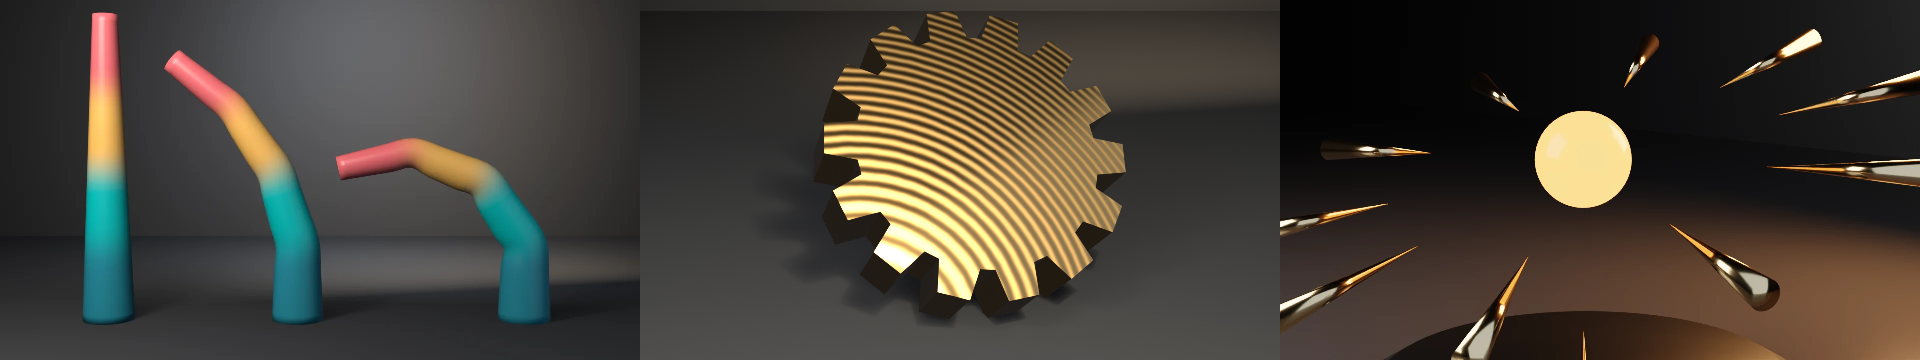
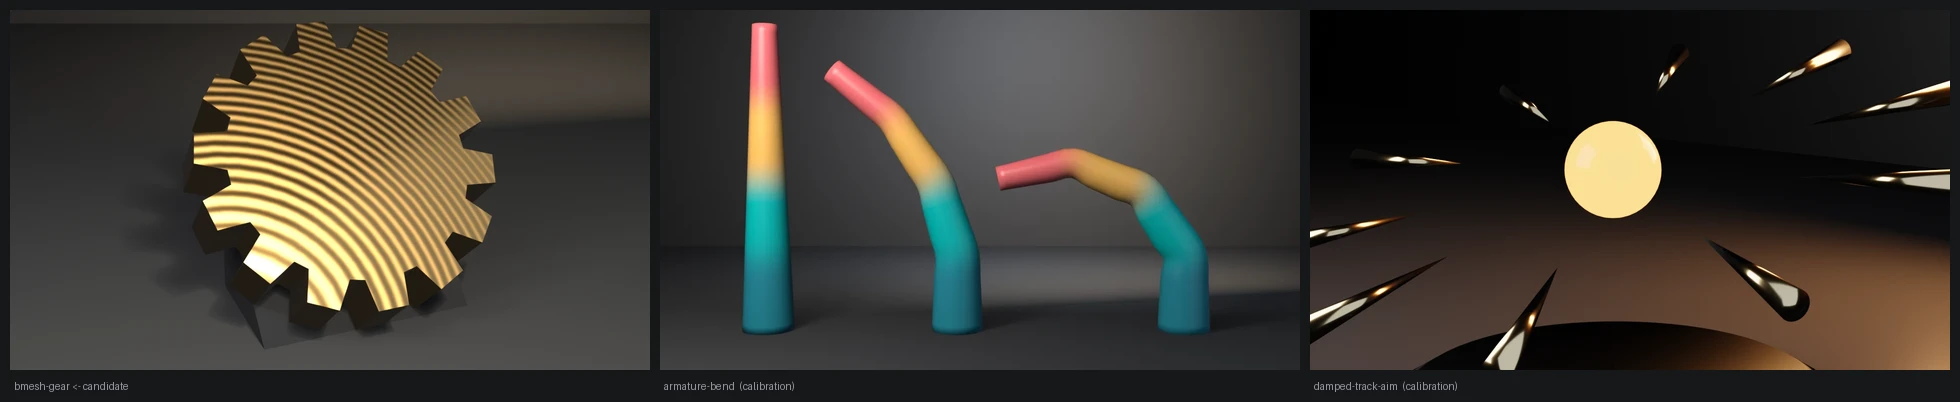
fix(examples): lean the bmesh-gear on a display wedge
The gear leaned 46 degrees back with nothing behind it, and its lowest tooth
was sunk 4.5 cm into the floor. The gear is now seated from its lowest
evaluated vertex (3 mm bite) and carried by a matte inclined wedge whose
slope lies in the back-cap plane. The camera rides with the seat height.
bmesh-gear is a pinned calibration reference: luma 0.305 -> 0.302, stage
0.237 -> 0.236, warmth +0.370 -> +0.374, saturation 0.195 -> 0.195.
Render path only; exit codes are unchanged on all three binaries.

diff --git a/docs/gallery/bmesh-gear/index.html b/docs/gallery/bmesh-gear/index.html
@@ -16,13 +16,13 @@
   <meta property="og:image" content="https://tmhsdigital.github.io/Blender-Developer-Tools/gallery/assets/bmesh-gear-hero.webp" />
   <meta property="og:image:width" content="1280" />
   <meta property="og:image:height" content="720" />
-  <meta property="og:image:alt" content="A gold fourteen-tooth gear lying at an angle, its face covered in concentric grooves." />
+  <meta property="og:image:alt" content="A gold fourteen-tooth gear leaning back on a dark display wedge, its face covered in concentric grooves." />
   <meta property="og:site_name" content="Blender Developer Tools" />
   <meta name="twitter:card" content="summary_large_image" />
   <meta name="twitter:title" content="bmesh-gear — Examples — Blender Developer Tools" />
   <meta name="twitter:description" content="A 14-tooth gear built entirely with bmesh — profile ring, face, extrude — with bm.free() in a try/finally, exactly as the ownership contract demands." />
   <meta name="twitter:image" content="https://tmhsdigital.github.io/Blender-Developer-Tools/gallery/assets/bmesh-gear-hero.webp" />
-  <meta name="twitter:image:alt" content="A gold fourteen-tooth gear lying at an angle, its face covered in concentric grooves." />
+  <meta name="twitter:image:alt" content="A gold fourteen-tooth gear leaning back on a dark display wedge, its face covered in concentric grooves." />
   <style>
     /* fonts are deployed by the landing build (docs/fonts/) */
     @font-face { font-family: 'Barlow Condensed'; font-weight: 600; font-display: swap;
@@ -268,8 +268,8 @@
     <p>A 14-tooth gear built entirely with bmesh — profile ring, face, extrude — with bm.free() in a try/finally, exactly as the ownership contract demands.</p>
   </header>
   <main id="main">
-    <button class="detail-hero" id="heroZoom" type="button" aria-label="View full size: A gold fourteen-tooth gear lying at an angle, its face covered in concentric grooves.">
-      <img src="../assets/bmesh-gear-hero.webp" alt="A gold fourteen-tooth gear lying at an angle, its face covered in concentric grooves." width="1280" height="720" />
+    <button class="detail-hero" id="heroZoom" type="button" aria-label="View full size: A gold fourteen-tooth gear leaning back on a dark display wedge, its face covered in concentric grooves.">
+      <img src="../assets/bmesh-gear-hero.webp" alt="A gold fourteen-tooth gear leaning back on a dark display wedge, its face covered in concentric grooves." width="1280" height="720" />
     </button>
     <p class="zoom-hint">Rendered headless by the example itself — click to zoom.</p>
     <div class="callout"><span class="tag">witnesses</span> Parametric bmesh topology is exactly predictable: verts, edges, and faces match their closed forms, and every edge borders exactly two faces (watertight).</div>
@@ -280,6 +280,7 @@
     <section class="detail-section md">
 <p>A runnable example that builds a 14-tooth gear entirely with bmesh — profile ring, face, <code>extrude_face_region</code>, translate — following the ownership contract from <a href="https://github.com/TMHSDigital/Blender-Developer-Tools/tree/main/skills/mesh-editing-and-bmesh/SKILL.md"><code>mesh-editing-and-bmesh</code></a> and the <a href="https://github.com/TMHSDigital/Blender-Developer-Tools/tree/main/rules/always-free-bmesh.mdc"><code>always-free-bmesh</code></a> rule: every <code>bmesh.new()</code> is paired with <code>bm.free()</code> in a <code>try</code>/<code>finally</code>.</p>
 <p><strong>What it witnesses:</strong> parametric bmesh construction has exactly predictable topology. The check asserts the closed-form counts — verts = 2 × (4 × teeth), faces = sides + 2 caps, edges = 3 × profile — and that the result is watertight (every edge borders exactly two faces). If an op leaks geometry or a face fails to close, the math catches it.</p>
+<p>The still leans the gear back on a matte inclined display wedge. Both contacts are derived from the posed mesh: the lowest back-cap vertex sits 3 mm into the floor, and the wedge&#x27;s slope lies in the back-cap plane, so the lean is carried rather than held in the air.</p>
 <h2>Run</h2>
 <pre><code># Cheap correctness check (no render) — the CI check:
 blender --background --python bmesh_gear.py --
@@ -322,6 +323,7 @@ check. Pass --output to also render a still:
     blender --background --python bmesh_gear.py -- --output g.png  # + render
 &quot;&quot;&quot;</span>
 <span class="k">import</span> bpy, bmesh, sys, os, math, argparse
+<span class="k">from</span> mathutils <span class="k">import</span> Vector
 
 TEETH = <span class="n">14</span>
 R_ROOT = <span class="n">1.0</span>
@@ -329,6 +331,11 @@ R_TIP = <span class="n">1.25</span>
 DEPTH = <span class="n">0.6</span>
 <span class="c"># fraction of a tooth period spent at the tip vs the root</span>
 TOOTH_DUTY = <span class="n">0.45</span>
+
+<span class="c"># render staging only (not part of the check)</span>
+STAGE_BITE = <span class="n">0.003</span>    <span class="c"># contact depth into the floor and into the gear&#x27;s back</span>
+WEDGE_SLOPE = <span class="n">1.55</span>    <span class="c"># display wedge slope length, up the gear&#x27;s back face</span>
+WEDGE_WIDTH = <span class="n">1.8</span>     <span class="c"># display wedge width across the gear</span>
 
 
 <span class="k">def</span> gear_profile():
@@ -425,8 +432,53 @@ TOOTH_DUTY = <span class="n">0.45</span>
     nt.links.new(rings.outputs[<span class="s">&quot;Fac&quot;</span>], rough.inputs[<span class="s">&quot;Value&quot;</span>])
     nt.links.new(rough.outputs[<span class="s">&quot;Result&quot;</span>], bsdf.inputs[<span class="s">&quot;Roughness&quot;</span>])
     obj.data.materials.append(mat)
-    obj.location = (<span class="n">0.0</span>, <span class="n">0.0</span>, <span class="n">0.85</span>)
+    <span class="c"># the gear leans back on an inclined display wedge. Both contacts are</span>
+    <span class="c"># derived from the posed mesh: the lowest back-cap vertex bites into</span>
+    <span class="c"># the floor, and the wedge&#x27;s slope lies in the back-cap plane, sunk into</span>
+    <span class="c"># the gear, so the lean is carried rather than hung in the air</span>
     obj.rotation_euler = (math.radians(<span class="n">46</span>), <span class="n">0.0</span>, math.radians(<span class="n">22</span>))
+    obj.location = (<span class="n">0.0</span>, <span class="n">0.0</span>, <span class="n">0.0</span>)
+    bpy.context.view_layer.update()
+    obj.location.z = -min((obj.matrix_world @ v.co).z <span class="k">for</span> v <span class="k">in</span> obj.data.vertices) - STAGE_BITE
+    bpy.context.view_layer.update()
+    mw = obj.matrix_world
+    rot = mw.to_3x3()
+    side = (rot @ Vector((<span class="n">1.0</span>, <span class="n">0.0</span>, <span class="n">0.0</span>))).normalized()
+    up = (rot @ Vector((<span class="n">0.0</span>, <span class="n">1.0</span>, <span class="n">0.0</span>))).normalized()
+    into = (rot @ Vector((<span class="n">0.0</span>, <span class="n">0.0</span>, <span class="n">1.0</span>))).normalized()
+    low = min((mw @ v.co <span class="k">for</span> v <span class="k">in</span> obj.data.vertices), key=<span class="k">lambda</span> p: p.z)
+    centre = mw @ Vector((<span class="n">0.0</span>, <span class="n">0.0</span>, <span class="n">0.0</span>))
+    foot = low + side * (centre - low).dot(side) + into * STAGE_BITE
+    top = foot + up * WEDGE_SLOPE
+    back = Vector((top.x, top.y, -STAGE_BITE))
+    front = Vector((foot.x, foot.y, -STAGE_BITE))
+    wedge_me = bpy.data.meshes.new(<span class="s">&quot;Wedge&quot;</span>)
+    bm = bmesh.new()
+    <span class="k">try</span>:
+        half = side * (WEDGE_WIDTH / <span class="n">2</span>)
+        ring = [[bm.verts.new(p + sgn * half) <span class="k">for</span> p <span class="k">in</span> (front, foot, top, back)]
+                <span class="k">for</span> sgn <span class="k">in</span> (-<span class="n">1.0</span>, <span class="n">1.0</span>)]
+        a, b = ring
+        bm.faces.new(a)
+        bm.faces.new(b[::-<span class="n">1</span>])
+        <span class="k">for</span> i <span class="k">in</span> range(<span class="n">4</span>):
+            j = (i + <span class="n">1</span>) % <span class="n">4</span>
+            bm.faces.new((a[i], a[j], b[j], b[i]))
+        bmesh.ops.recalc_face_normals(bm, faces=bm.faces)
+        bm.to_mesh(wedge_me)
+    <span class="k">finally</span>:
+        bm.free()
+    wmat = bpy.data.materials.new(<span class="s">&quot;DisplayStand&quot;</span>)
+    wmat.use_nodes = <span class="k">True</span>
+    wb = wmat.node_tree.nodes[<span class="s">&quot;Principled BSDF&quot;</span>]
+    <span class="c"># matte and dark: the slope faces the key square-on, and at the floor&#x27;s</span>
+    <span class="c"># finish its specular sheen alone (~45/255, measured) reads as paper</span>
+    wb.inputs[<span class="s">&quot;Base Color&quot;</span>].default_value = (<span class="n">0.02</span>, <span class="n">0.021</span>, <span class="n">0.025</span>, <span class="n">1.0</span>)
+    wb.inputs[<span class="s">&quot;Roughness&quot;</span>].default_value = <span class="n">0.9</span>
+    spec = wb.inputs.get(<span class="s">&quot;Specular IOR Level&quot;</span>) <span class="k">or</span> wb.inputs.get(<span class="s">&quot;Specular&quot;</span>)
+    spec.default_value = <span class="n">0.1</span>
+    wedge_me.materials.append(wmat)
+    scene.collection.objects.link(bpy.data.objects.new(<span class="s">&quot;Wedge&quot;</span>, wedge_me))
 
     floor_me = bpy.data.meshes.new(<span class="s">&quot;Floor&quot;</span>)
     bm = bmesh.new()
@@ -473,7 +525,9 @@ TOOTH_DUTY = <span class="n">0.45</span>
     cam_data = bpy.data.cameras.new(<span class="s">&quot;Cam&quot;</span>)
     cam_data.lens = <span class="n">55.0</span>
     cam = bpy.data.objects.new(<span class="s">&quot;Cam&quot;</span>, cam_data)
-    cam.location = (<span class="n">0.0</span>, -<span class="n">7.6</span>, <span class="n">4.2</span>)
+    <span class="c"># the camera rides with the gear&#x27;s derived seat height (it was posed for</span>
+    <span class="c"># a gear hung at z=0.85), so the composition is unchanged</span>
+    cam.location = (<span class="n">0.0</span>, -<span class="n">7.6</span>, <span class="n">4.2</span> + obj.location.z - <span class="n">0.85</span>)
     cam.rotation_euler = (math.radians(<span class="n">66</span>), <span class="n">0.0</span>, <span class="n">0.0</span>)
     scene.collection.objects.link(cam)
     scene.camera = cam
@@ -531,7 +585,7 @@ TOOTH_DUTY = <span class="n">0.45</span>
   </main>
   <dialog class="lightbox" id="lightbox" aria-label="Full-size render">
     <button class="lightbox-close" type="button" autofocus>Close</button>
-    <img src="../assets/bmesh-gear-hero.webp" alt="A gold fourteen-tooth gear lying at an angle, its face covered in concentric grooves." />
+    <img src="../assets/bmesh-gear-hero.webp" alt="A gold fourteen-tooth gear leaning back on a dark display wedge, its face covered in concentric grooves." />
   </dialog>
   <footer>
     <div class="statusbar">

diff --git a/examples/bmesh-gear/bmesh_gear.py b/examples/bmesh-gear/bmesh_gear.py
@@ -19,6 +19,7 @@ check. Pass --output to also render a still:
     blender --background --python bmesh_gear.py -- --output g.png  # + render
 """
 import bpy, bmesh, sys, os, math, argparse
+from mathutils import Vector
 
 TEETH = 14
 R_ROOT = 1.0
@@ -26,6 +27,11 @@ R_TIP = 1.25
 DEPTH = 0.6
 # fraction of a tooth period spent at the tip vs the root
 TOOTH_DUTY = 0.45
+
+# render staging only (not part of the check)
+STAGE_BITE = 0.003    # contact depth into the floor and into the gear's back
+WEDGE_SLOPE = 1.55    # display wedge slope length, up the gear's back face
+WEDGE_WIDTH = 1.8     # display wedge width across the gear
 
 
 def gear_profile():
@@ -122,8 +128,53 @@ def render_still(obj, path, engine):
     nt.links.new(rings.outputs["Fac"], rough.inputs["Value"])
     nt.links.new(rough.outputs["Result"], bsdf.inputs["Roughness"])
     obj.data.materials.append(mat)
-    obj.location = (0.0, 0.0, 0.85)
+    # the gear leans back on an inclined display wedge. Both contacts are
+    # derived from the posed mesh: the lowest back-cap vertex bites into
+    # the floor, and the wedge's slope lies in the back-cap plane, sunk into
+    # the gear, so the lean is carried rather than hung in the air
     obj.rotation_euler = (math.radians(46), 0.0, math.radians(22))
+    obj.location = (0.0, 0.0, 0.0)
+    bpy.context.view_layer.update()
+    obj.location.z = -min((obj.matrix_world @ v.co).z for v in obj.data.vertices) - STAGE_BITE
+    bpy.context.view_layer.update()
+    mw = obj.matrix_world
+    rot = mw.to_3x3()
+    side = (rot @ Vector((1.0, 0.0, 0.0))).normalized()
+    up = (rot @ Vector((0.0, 1.0, 0.0))).normalized()
+    into = (rot @ Vector((0.0, 0.0, 1.0))).normalized()
+    low = min((mw @ v.co for v in obj.data.vertices), key=lambda p: p.z)
+    centre = mw @ Vector((0.0, 0.0, 0.0))
+    foot = low + side * (centre - low).dot(side) + into * STAGE_BITE
+    top = foot + up * WEDGE_SLOPE
+    back = Vector((top.x, top.y, -STAGE_BITE))
+    front = Vector((foot.x, foot.y, -STAGE_BITE))
+    wedge_me = bpy.data.meshes.new("Wedge")
+    bm = bmesh.new()
+    try:
+        half = side * (WEDGE_WIDTH / 2)
+        ring = [[bm.verts.new(p + sgn * half) for p in (front, foot, top, back)]
+                for sgn in (-1.0, 1.0)]
+        a, b = ring
+        bm.faces.new(a)
+        bm.faces.new(b[::-1])
+        for i in range(4):
+            j = (i + 1) % 4
+            bm.faces.new((a[i], a[j], b[j], b[i]))
+        bmesh.ops.recalc_face_normals(bm, faces=bm.faces)
+        bm.to_mesh(wedge_me)
+    finally:
+        bm.free()
+    wmat = bpy.data.materials.new("DisplayStand")
+    wmat.use_nodes = True
+    wb = wmat.node_tree.nodes["Principled BSDF"]
+    # matte and dark: the slope faces the key square-on, and at the floor's
+    # finish its specular sheen alone (~45/255, measured) reads as paper
+    wb.inputs["Base Color"].default_value = (0.02, 0.021, 0.025, 1.0)
+    wb.inputs["Roughness"].default_value = 0.9
+    spec = wb.inputs.get("Specular IOR Level") or wb.inputs.get("Specular")
+    spec.default_value = 0.1
+    wedge_me.materials.append(wmat)
+    scene.collection.objects.link(bpy.data.objects.new("Wedge", wedge_me))
 
     floor_me = bpy.data.meshes.new("Floor")
     bm = bmesh.new()
@@ -170,7 +221,9 @@ def render_still(obj, path, engine):
     cam_data = bpy.data.cameras.new("Cam")
     cam_data.lens = 55.0
     cam = bpy.data.objects.new("Cam", cam_data)
-    cam.location = (0.0, -7.6, 4.2)
+    # the camera rides with the gear's derived seat height (it was posed for
+    # a gear hung at z=0.85), so the composition is unchanged
+    cam.location = (0.0, -7.6, 4.2 + obj.location.z - 0.85)
     cam.rotation_euler = (math.radians(66), 0.0, 0.0)
     scene.collection.objects.link(cam)
     scene.camera = cam

diff --git a/examples/bmesh-gear/README.md b/examples/bmesh-gear/README.md
@@ -11,6 +11,11 @@ check asserts the closed-form counts — verts = 2 × (4 × teeth), faces = side
 edges = 3 × profile — and that the result is watertight (every edge borders exactly two
 faces). If an op leaks geometry or a face fails to close, the math catches it.
 
+The still leans the gear back on a matte inclined display wedge. Both
+contacts are derived from the posed mesh: the lowest back-cap vertex sits 3 mm
+into the floor, and the wedge's slope lies in the back-cap plane, so the lean
+is carried rather than held in the air.
+
 ## Run
 
 ```bash
